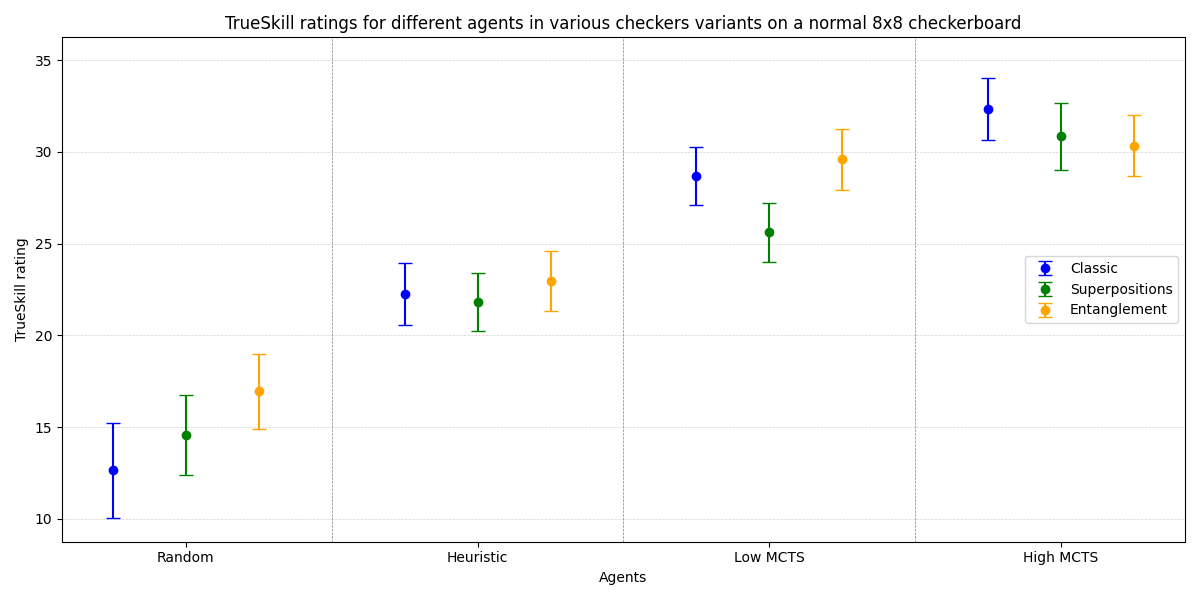
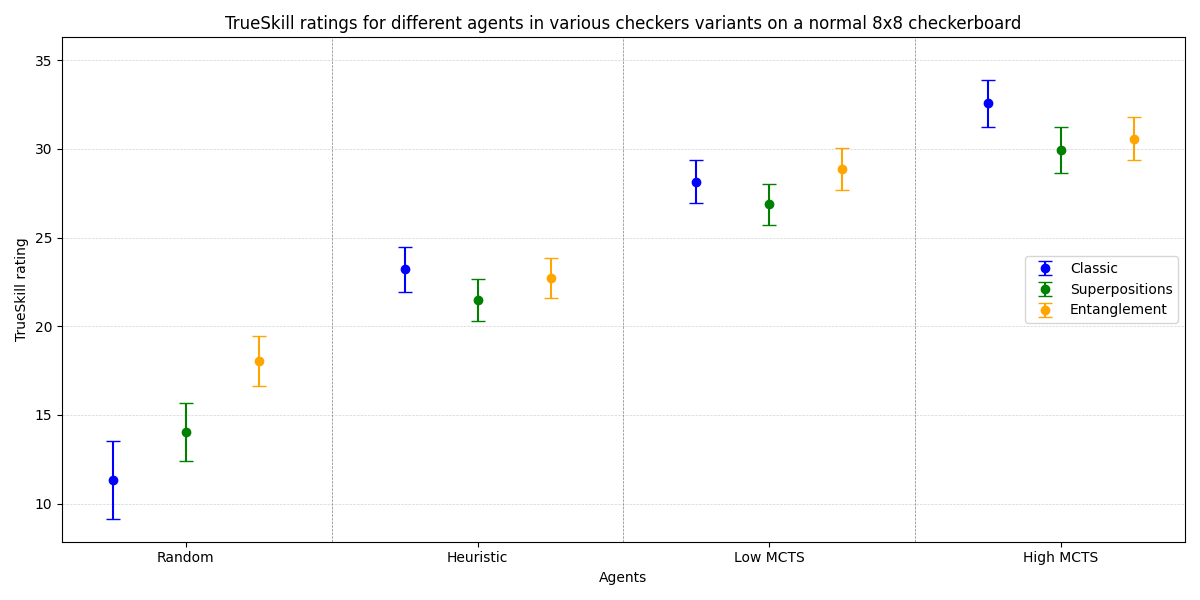
plot for tables with draw and no draw

diff --git a/plot.py b/plot.py
@@ -1,117 +1,46 @@
-import matplotlib.pyplot as plt
 import numpy as np
+import matplotlib.pyplot as plt
+import pandas as pd
+
+def splitSerToArr(ser):
+    return [ser.index, ser.values]
 
 
-# WITH DRAW
-# size = ["5x5", "6x6", "7x7", "8x8"]
-# classic_moves= [14.446, 25.647, 34.162, 48.338]
-# superpos_moves = [18.229, 29.979, 41.514, 57.387]
-# entangle_moves = [19.961, 30.339, 41.216, 56.415]
+# Data
+sizes = ['5x5', '6x6', '7x7', '8x8', '9x9', '10x10', '11x11', '12x12', '13x13', '14x14']
+fake = [1, 2, 3, 4, 5, 6, 7, 8, 9, 10]
+classic_checkers = [14.446, 25.647, 34.162, 48.338, np.nan, 104.48, np.nan, 242.91, np.nan, 333.04]
+# classic_mask = np.isfinite(classic_checkers)
+superpositions = [18.22, 32.63, 54.2, 89.38, np.nan, 238.53, np.nan, 384.66, np.nan, 977.69]
+# superpositions_mask = np.isfinite(superpositions)
+entanglement = [21.79, 32.51, 51.88, 74.28, np.nan, 170.17, np.nan, 322.11, np.nan, 610.4]
+# entanglement_mask = np.isfinite(entanglement)
+classic_series = pd.Series(classic_checkers, index=sizes)
+superpositions_series = pd.Series(superpositions, index=sizes)
+entanglement_series = pd.Series(entanglement, index=sizes)
+fake_series = pd.Series(fake, index=sizes)
 
-# # plt.plot(size, classic_moves, superpos_moves, entangle_moves)
-# plt.plot(size, classic_moves, label="Classic")
-# plt.plot(size, superpos_moves, label="Superposition")
-# plt.plot(size, entangle_moves, label="Entanglement")
-# plt.xlabel("Board size")
-# plt.ylabel("Average number of moves")
-# plt.legend(loc="upper left")
-# plt.show()
+# Plot
+# plt.figure(figsize=(10, 6))
+plt.plot( *splitSerToArr(fake_series.dropna()), linestyle='-', marker='o', alpha=0)
+plt.plot( *splitSerToArr(classic_series.dropna()), linestyle='-', marker='o', label='Classic checkers', color='blue')
+plt.plot( *splitSerToArr(superpositions_series.dropna()), linestyle='-', marker='o', label='Checkers with superpositions', color='green')
+plt.plot( *splitSerToArr(entanglement_series.dropna()), linestyle='-', marker='o', label='Checkers with entanglement', color='orange')
 
-
-
-# WITHOUT DRAW
-size = ["5x5", "6x6", "7x7", "8x8"]
-
-classic_moves= [14.5, 27.62, 35.01, 61.92]
-superpos_moves = [18.93, 30.59, 51.68, 85.21]
-entangle_moves = [20.64, 37.68, 59.68, 86.17]
-
-classic_sec = [0.0314, 0.0712, 0.0908, 0.1921]
-superpos_sec = [0.1469, 0.2403, 0.5934, 1.2016]
-entangle_sec = [0.2211, 0.3667, 0.7127, 1.2654]
-# # plt.plot(size, classic_moves, superpos_moves, entangle_moves)
-# plt.plot(size, classic_moves, label="Classic")
-# plt.plot(size, superpos_moves, label="Superposition")
-# plt.plot(size, entangle_moves, label="Entanglement")
-# plt.xlabel("Board size")
-# plt.ylabel("Average number of moves")
-# plt.legend(loc="upper left")
-# plt.show()
-
-############################################################
-# ONE PLOT FOR TIME AND MOVES
-# x = size
-# # y-axis values
-# # plotting figures by creating axes object
-# # using subplots() function
-# fig, ax = plt.subplots(figsize = (10, 5))
-# plt.title('No draw')
-# # using the twinx() for creating another
-# # axes object for secondary y-Axis
-# ax2 = ax.twinx()
-# # ax2.set_yscale('log')
-# ax.plot(x, classic_moves, color = 'red', linestyle = 'solid', label="Classic moves")
-# ax.plot(x, superpos_moves, color = 'orange', linestyle = 'solid', label="Superposition moves")
-# ax.plot(x, entangle_moves, color = 'yellow', linestyle = 'solid', label="Entanglement moves")
-# ax2.plot(x, classic_sec, color = 'purple', linestyle = 'dashed', label="Classic time")
-# ax2.plot(x, superpos_sec, color = 'blue', linestyle = 'dashed', label="Superposition time")
-# ax2.plot(x, entangle_sec, color = 'green', linestyle = 'dashed', label="Entanglement time")
-# ax.legend(loc="upper left")
-# ax2.legend(loc="upper center")
-# # giving labels to the axises
-# ax.set_xlabel('Board size', color = 'black')
-# ax.set_ylabel('Number of moves', color = 'r')
-# # secondary y-axis label
-# ax2.set_ylabel('Time (s)', color = 'b')
-# # defining display layout 
-# plt.tight_layout()
-# # show plot
-# plt.show()
-
-
-############################################################
-# PLOT FOR TIME
-x = size
-# y-axis values
-# plotting figures by creating axes object
-# using subplots() function
-# fig, ax = plt.subplots(figsize = (10, 5))
-fig, ax = plt.subplots()
-plt.title('Average time per game for different board sizes without draw')
-# ax2.set_yscale('log')
-ax.plot(x, classic_sec, color = 'yellow', label="Classic time")
-ax.plot(x, superpos_sec, color = 'blue', label="Superposition time")
-ax.plot(x, entangle_sec, color = 'green', label="Entanglement time")
-ax.legend(loc="upper left")
-# giving labels to the axises
-ax.set_xlabel('Board size')
-ax.set_ylabel('Average time (s)')
-# defining display layout 
+plt.xlabel('Board Size')
+plt.ylabel('Average number of moves')
+plt.title('Average number of moves for different board sizes')
+plt.legend()
+plt.grid(True)
+# plt.xticks(sizes)  # Set xticks to display all sizes
+frame1 = plt.gca()
+count = 0
+for xlabel_i in frame1.axes.get_xticklabels():
+    # set visible for 9x9, 11x11, 13x13 to false
+    if(sizes[count] == '9x9' or sizes[count] == '11x11' or sizes[count] == '13x13'):    
+        xlabel_i.set_visible(False)
+        xlabel_i.set_fontsize(0.0)
+    count += 1
 plt.tight_layout()
-# show plot
+plt.savefig('no_draw_average_moves.png')
 # plt.show()
-plt.savefig('avgtimes.png')
-
-
-############################################################
-# PLOT FOR MOVES
-x = size
-# y-axis values
-# plotting figures by creating axes object
-# using subplots() function
-# fig, ax = plt.subplots(figsize = (10, 5))
-fig, ax = plt.subplots()
-plt.title('Average number of moves per game for different board sizes without draw')
-# ax2.set_yscale('log')
-ax.plot(x, classic_moves, color = 'yellow', label="Classic time")
-ax.plot(x, superpos_moves, color = 'blue', label="Superposition time")
-ax.plot(x, entangle_moves, color = 'green', label="Entanglement time")
-ax.legend(loc="upper left")
-# giving labels to the axises
-ax.set_xlabel('Board size')
-ax.set_ylabel('Average number of moves')
-# defining display layout 
-plt.tight_layout()
-# show plot
-# plt.show()
-plt.savefig('avgmoves.png')

diff --git a/trueskillplot.py b/trueskillplot.py
@@ -1,3 +1,53 @@
+# import numpy as np
+# import matplotlib.pyplot as plt
+
+# # Data
+# variants = ['Classic', 'Superpositions', 'Entanglement']
+# agents = ['Random', 'Heuristic', 'Low MCTS', 'High MCTS']
+# colors = ['blue', 'green', 'orange', 'red']
+# # Ratings for 10 games of normal checkers board
+# ratings = {
+#     'Classic': [(11.345, 2.197), (23.211, 1.272), (28.161, 1.199), (32.577, 1.329)],
+#     'Superpositions': [(14.036, 1.631), (21.474, 1.179), (26.870, 1.166), (29.933, 1.309)],
+#     'Entanglement': [(18.045, 1.416), (22.708, 1.121), (28.886, 1.182), (30.575, 1.226)]
+# }
+# # Ratings for 25 games of 5x5 checkers board
+# # ratings = {
+# #     'Classic': [(17.828, 1.173), (24.517, 0.847), (29.183, 0.869), (30.482, 0.899)],
+# #     'Superpositions': [(21.021, 0.853), (23.974, 0.815), (27.167, 0.821), (27.423, 0.818)],
+# #     'Entanglement': [(21.941, 0.832), (25.367, 0.798), (27.022, 0.809), (26.026, 0.808)]
+# # }
+# # Plot
+# plt.figure(figsize=(12, 6))
+
+# # Plotting background horizontal lines
+# for i in range(10, 36, 5):
+#     plt.axhline(y=i, color='lightgrey', linestyle='--', linewidth=0.5)
+
+# for i, variant in enumerate(variants):
+#     x = np.arange(len(agents)) + i * 0.25
+#     means = [rating[0] for rating in ratings[variant]]
+#     stds = [rating[1] for rating in ratings[variant]]
+#     plt.errorbar(x, means, yerr=stds, fmt='o', capsize=5, label=variant, color=colors[i])
+
+#     #  # Linear regression
+#     # poly = np.polyfit(x, means, 1)
+#     # plt.plot(x, np.polyval(poly, x), color=colors[i], linestyle='--')
+
+# # Adding vertical lines between agents
+# for i in range(len(agents) - 1):
+#     plt.axvline(x=i + 0.75, color='grey', linestyle='--', linewidth=0.5)
+
+# plt.xticks(np.arange(len(agents)) + 0.25, agents)
+# plt.xlabel('Agents')
+# plt.ylabel('TrueSkill rating')
+# plt.title('TrueSkill ratings for different agents in various checkers variants on a normal 8x8 checkerboard')
+# plt.legend()
+# plt.tight_layout()
+# plt.savefig('trueskill_ratings8x8.png')
+# plt.show()
+
+
 import numpy as np
 import matplotlib.pyplot as plt
 
@@ -7,9 +57,9 @@ agents = ['Random', 'Heuristic', 'Low MCTS', 'High MCTS']
 colors = ['blue', 'green', 'orange', 'red']
 # Ratings for 10 games of normal checkers board
 ratings = {
-    'Classic': [(12.638, 2.593), (22.257, 1.694), (28.690, 1.586), (32.362, 1.694)],
-    'Superpositions': [(14.560, 2.197), (21.832, 1.595), (25.634, 1.608), (30.847, 1.828)],
-    'Entanglement': [(16.947, 2.045), (22.949, 1.638), (29.595, 1.681), (30.348, 1.654)]
+    'Classic': [(11.345, 2.197), (23.211, 1.272), (28.161, 1.199), (32.577, 1.329)],
+    'Superpositions': [(14.036, 1.631), (21.474, 1.179), (26.870, 1.166), (29.933, 1.309)],
+    'Entanglement': [(18.045, 1.416), (22.708, 1.121), (28.886, 1.182), (30.575, 1.226)]
 }
 # Ratings for 25 games of 5x5 checkers board
 # ratings = {
@@ -24,25 +74,25 @@ plt.figure(figsize=(12, 6))
 for i in range(10, 36, 5):
     plt.axhline(y=i, color='lightgrey', linestyle='--', linewidth=0.5)
 
-for i, variant in enumerate(variants):
-    x = np.arange(len(agents)) + i * 0.25
-    means = [rating[0] for rating in ratings[variant]]
-    stds = [rating[1] for rating in ratings[variant]]
-    plt.errorbar(x, means, yerr=stds, fmt='o', capsize=5, label=variant, color=colors[i])
+for i, agent in enumerate(agents):
+    x = np.arange(len(variants)) + i * 0.25
+    means = [ratings[variant][i][0] for variant in variants]
+    stds = [ratings[variant][i][1] for variant in variants]
+    plt.errorbar(x, means, yerr=stds, fmt='o', capsize=5, label=agent, color=colors[i])
 
-     # Linear regression
-    poly = np.polyfit(x, means, 1)
-    plt.plot(x, np.polyval(poly, x), color=colors[i], linestyle='--')
+    # Linear regression
+    # poly = np.polyfit(x, means, 1)
+    # plt.plot(x, np.polyval(poly, x), color=colors[i], linestyle='--')
 
-# Adding vertical lines between agents
-for i in range(len(agents) - 1):
-    plt.axvline(x=i + 0.75, color='grey', linestyle='--', linewidth=0.5)
+# Adding vertical lines between game types
+for i in range(len(variants) - 1):
+    plt.axvline(x=i + 0.9, color='grey', linestyle='--', linewidth=0.5)
 
-plt.xticks(np.arange(len(agents)) + 0.25, agents)
-plt.xlabel('Agents')
+plt.xticks(np.arange(len(variants)) + 0.25, variants)
+plt.xlabel('Game Type')
 plt.ylabel('TrueSkill rating')
-plt.title('TrueSkill ratings for different agents in various checkers variants on a normal 8x8 checkerboard')
+plt.title('TrueSkill ratings for different game types with various agents on a normal 8x8 checkerboard')
 plt.legend()
 plt.tight_layout()
-# plt.savefig('trueskill_ratings.png')
+plt.savefig('trueskill_ratings_game_types.png')
 plt.show()

diff --git a/main.py b/main.py
@@ -94,18 +94,25 @@ def main():
     file.close()
     file = open("./results2.txt", "a")
     # rules = [CheckersRules.CLASSICAL, CheckersRules.QUANTUM_V1, CheckersRules.QUANTUM_V2]
-    rules = [CheckersRules.QUANTUM_V2]
+    rules = [CheckersRules.CLASSICAL]
     sizes = [8]
-    agents = ["random", "heuristic", "low_mcts", "high_mcts"]
+    # agents = ["random", "heuristic", "low_mcts", "high_mcts"]
     # just mcts agents
-    # agents = ["low_mcts", "low_mcts"]
+    agents = ["heuristic", "high_mcts"]
     for rule in rules:
         for size in sizes:  
+            # ratings = {
+            #     'random': trueskill.Rating(mu=16.947, sigma=2.045),
+            #     'heuristic': trueskill.Rating(mu=22.949, sigma=1.638),
+            #     'low_mcts': trueskill.Rating(mu=29.595, sigma=1.681),
+            #     'high_mcts': trueskill.Rating(mu=30.348, sigma=1.654)
+            # }
+            # default ratings
             ratings = {
-                'random': trueskill.Rating(mu=16.947, sigma=2.045),
-                'heuristic': trueskill.Rating(mu=22.949, sigma=1.638),
-                'low_mcts': trueskill.Rating(mu=29.595, sigma=1.681),
-                'high_mcts': trueskill.Rating(mu=30.348, sigma=1.654)
+                'random': trueskill.Rating(),
+                'heuristic': trueskill.Rating(),
+                'low_mcts': trueskill.Rating(),
+                'high_mcts': trueskill.Rating()
             }
             # size = 5
             # rule = CheckersRules.CLASSICAL
@@ -136,7 +143,8 @@ def main():
                 print(time.time() - stime)
                 stime = time.time()
                 # if(k%10 == 0):
-                print(f"Iteration: {k+1}")
+                # print time at hour and minute
+                print(f"Iteration: {k+1} at {time.strftime('%H:%M', time.localtime())}")
                 sd = random.randint(0, 100000000000000000)
                 # sd = 4271756581358815
                 random.seed(sd)
